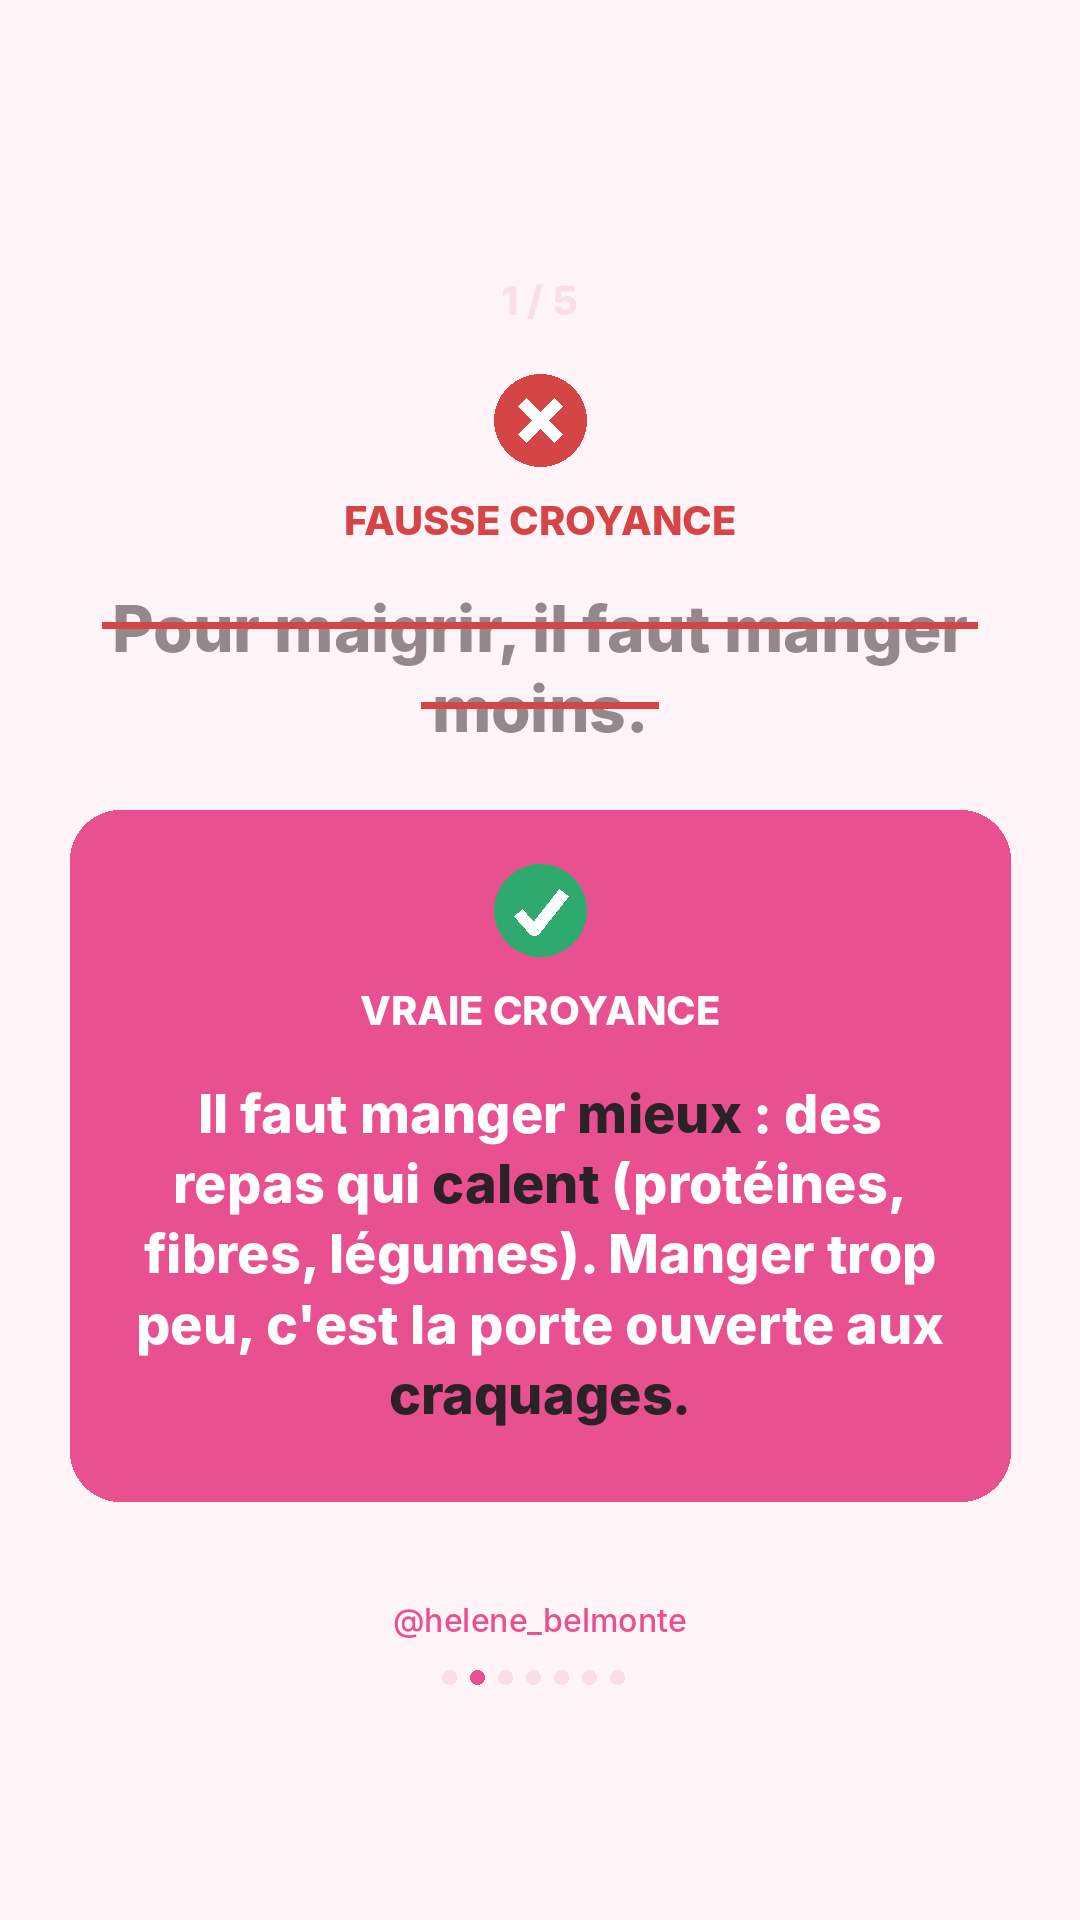
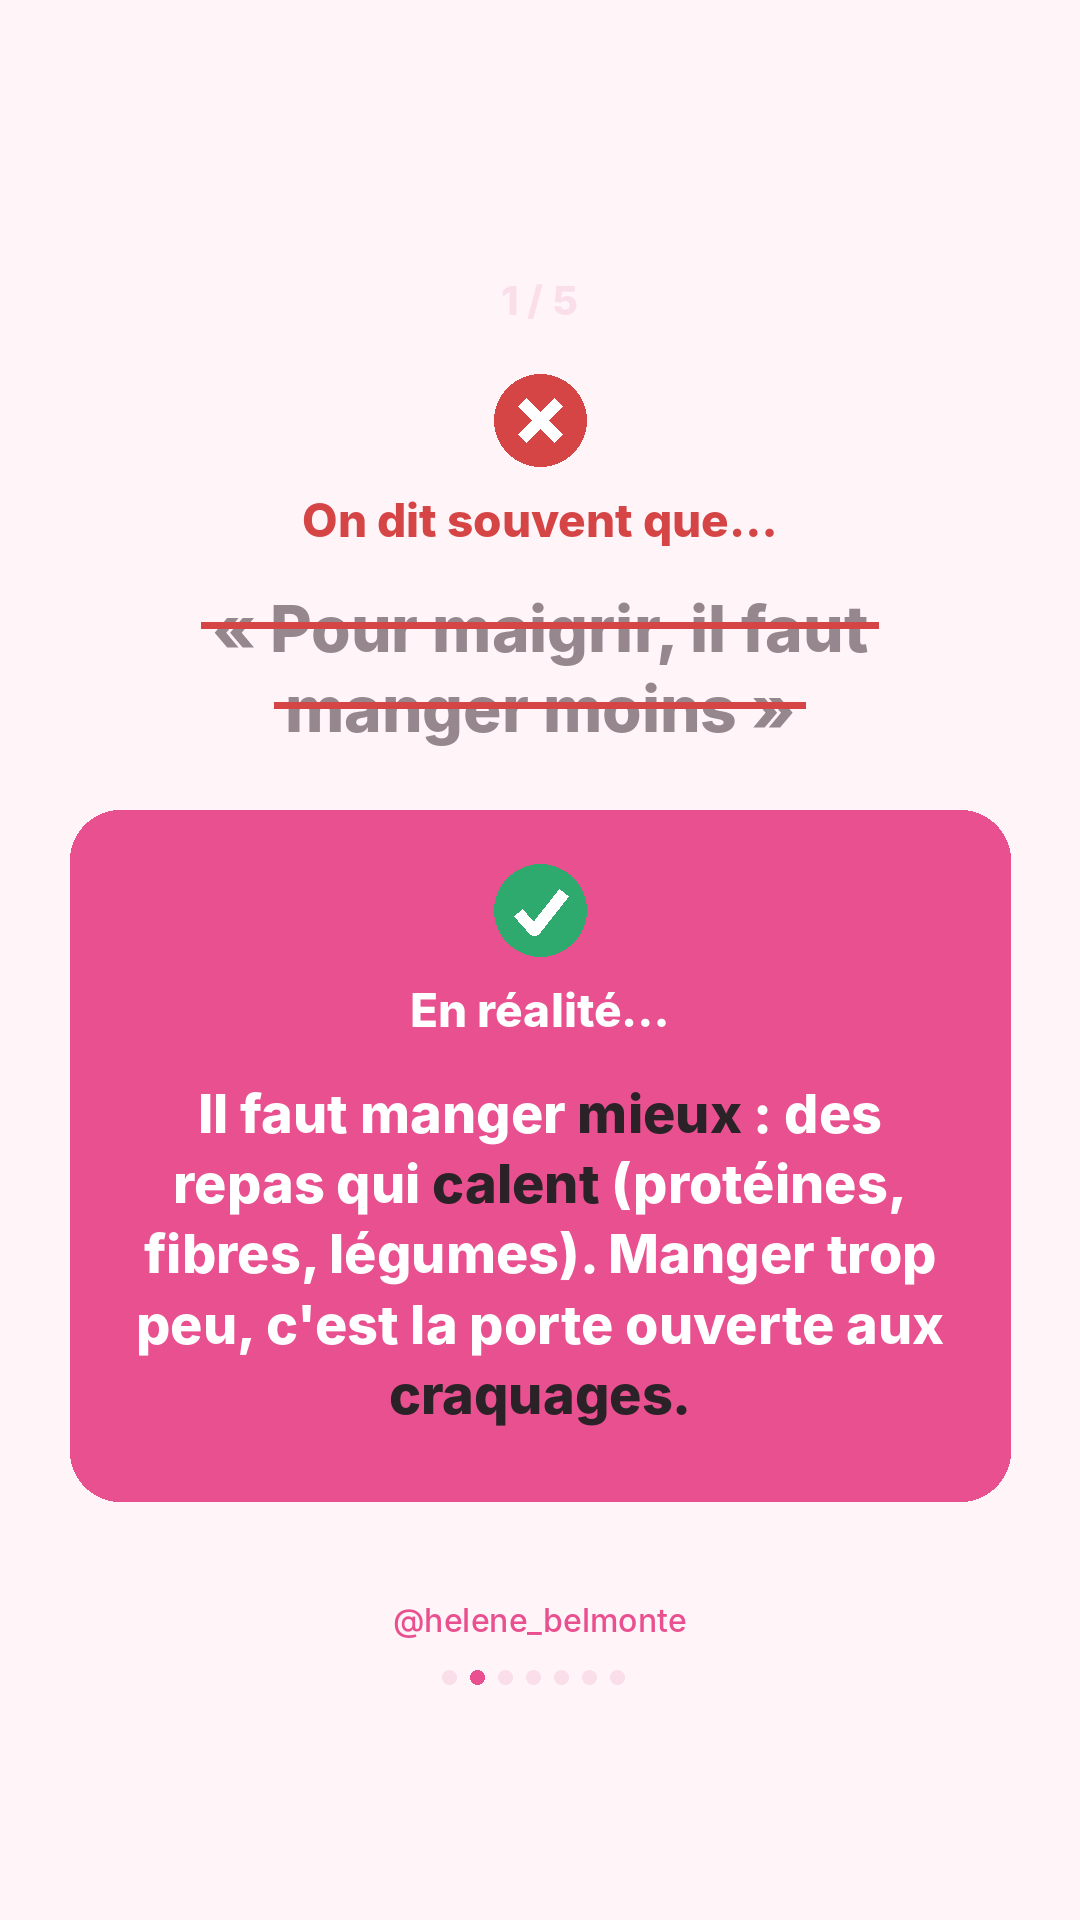
Stratégie stories + accroche « On dit souvent que… »
Claude-Session: https://claude.ai/code/session_01Qu7Kbk7XztmX7tXcsqwXcr

Changed region(s): [[0.0917, 0.3125, 0.8861, 0.4062], [0.275, 0.25, 0.7028, 0.2812], [0.3361, 0.5, 0.6722, 0.5312]]

diff --git a/scripts/stories_croyances.py b/scripts/stories_croyances.py
@@ -76,8 +76,8 @@ n = len(MYTHS) + 2
 
 # 1. Intro
 im = Image.new("RGB", (W, H), PINK); d = ImageDraw.Draw(im)
-d.text((W / 2, 520), "PERTE DE POIDS", font=XB(46), fill=(255, 210, 228), anchor="mm")
-y = draw_lines(d, wrap(d, "5 fausses croyances qui te bloquent", XB(104), 900), XB(104), 600, WHITE, lh=1.15)
+d.text((W / 2, 520), "ON DIT SOUVENT QUE…", font=XB(46), fill=(255, 210, 228), anchor="mm")
+y = draw_lines(d, wrap(d, "5 idées reçues qui bloquent ta perte de poids", XB(96), 900), XB(96), 600, WHITE, lh=1.15)
 d.rounded_rectangle((170, y + 70, W - 170, y + 190), 60, fill=WHITE)
 d.text((W / 2, y + 130), "Tu y crois encore ?", font=XB(48), fill=PINK, anchor="mm")
 d.text((W / 2, y + 290), "Tape pour voir  →", font=MD(40), fill=WHITE, anchor="mm")
@@ -89,20 +89,20 @@ for k, (faux, vrai) in enumerate(MYTHS):
     im = Image.new("RGB", (W, H), CREAM); d = ImageDraw.Draw(im)
     d.text((W / 2, 300), f"{k + 1} / {len(MYTHS)}", font=XB(40), fill=SOFT, anchor="mm")
     badge(d, W / 2, 420, False)
-    d.text((W / 2, 520), "FAUSSE CROYANCE", font=XB(40), fill=RED, anchor="mm")
-    y = draw_lines(d, wrap(d, faux, XB(64), 860), XB(64), 590, GREY, strike=RED)
+    d.text((W / 2, 520), "On dit souvent que…", font=XB(46), fill=RED, anchor="mm")
+    y = draw_lines(d, wrap(d, "«\u00a0" + faux.rstrip(".") + "\u00a0»", XB(64), 860), XB(64), 590, GREY, strike=RED)
     top = y + 60
     vl = wrap(d, vrai, XB(54), 820)
     d.rounded_rectangle((70, top, W - 70, top + 270 + len(vl) * 54 * 1.3 + 70), 50, fill=PINK)
     badge(d, W / 2, top + 100, True)
-    d.text((W / 2, top + 200), "VRAIE CROYANCE", font=XB(40), fill=WHITE, anchor="mm")
+    d.text((W / 2, top + 200), "En réalité…", font=XB(46), fill=WHITE, anchor="mm")
     draw_lines(d, wrap(d, vrai, XB(54), 820), XB(54), top + 270, WHITE, accent=DARK, lh=1.3)
     footer(d, k + 1, n)
     im.save(os.path.join(OUT, f"story_{k + 2:02d}.png"))
 
 # 7. CTA
 im = Image.new("RGB", (W, H), PINK); d = ImageDraw.Draw(im)
-y = draw_lines(d, wrap(d, "Laquelle tu croyais encore ?", XB(88), 880), XB(88), 480, WHITE, lh=1.15)
+y = draw_lines(d, wrap(d, "Laquelle on t'a déjà dite ?", XB(88), 880), XB(88), 480, WHITE, lh=1.15)
 d.text((W / 2, y + 60), "Réponds-moi en message, je lis tout", font=MD(40), fill=WHITE, anchor="mm")
 box = y + 180
 d.rounded_rectangle((110, box, W - 110, box + 330), 50, fill=WHITE)

diff --git a/CLAUDE.md b/CLAUDE.md
@@ -63,6 +63,17 @@ Docs business : contrat, mail de bienvenue, questionnaire de profil alimentaire,
 ## Règles visuelles
 - **Ne jamais utiliser une image extraite d'une vidéo comme photo** (carrousel, story…) sans son accord : elle s'est trouvée moche sur la capture du tapis de course. Utiliser uniquement les photos qu'elle choisit et envoie.
 
+## Stratégie stories (sa stratégie, à suivre chaque semaine)
+| Jour | Thème |
+|---|---|
+| Lundi | Valeur + CTA |
+| Mardi | Fausse croyance → vraie croyance (accroche « On dit souvent que… ») |
+| Mercredi | Sur elle, en lien avec sa niche |
+| Jeudi | Avis : clientes, amies, entourage… |
+| Vendredi | Valeur + CTA |
+| Samedi | Lifestyle |
+| Dimanche | Boîte à questions |
+
 ## Contenus déjà créés (à retrouver quand elle les redemande)
 | Date | Contenu | Dans le dépôt | Sur le Drive |
 |---|---|---|---|
